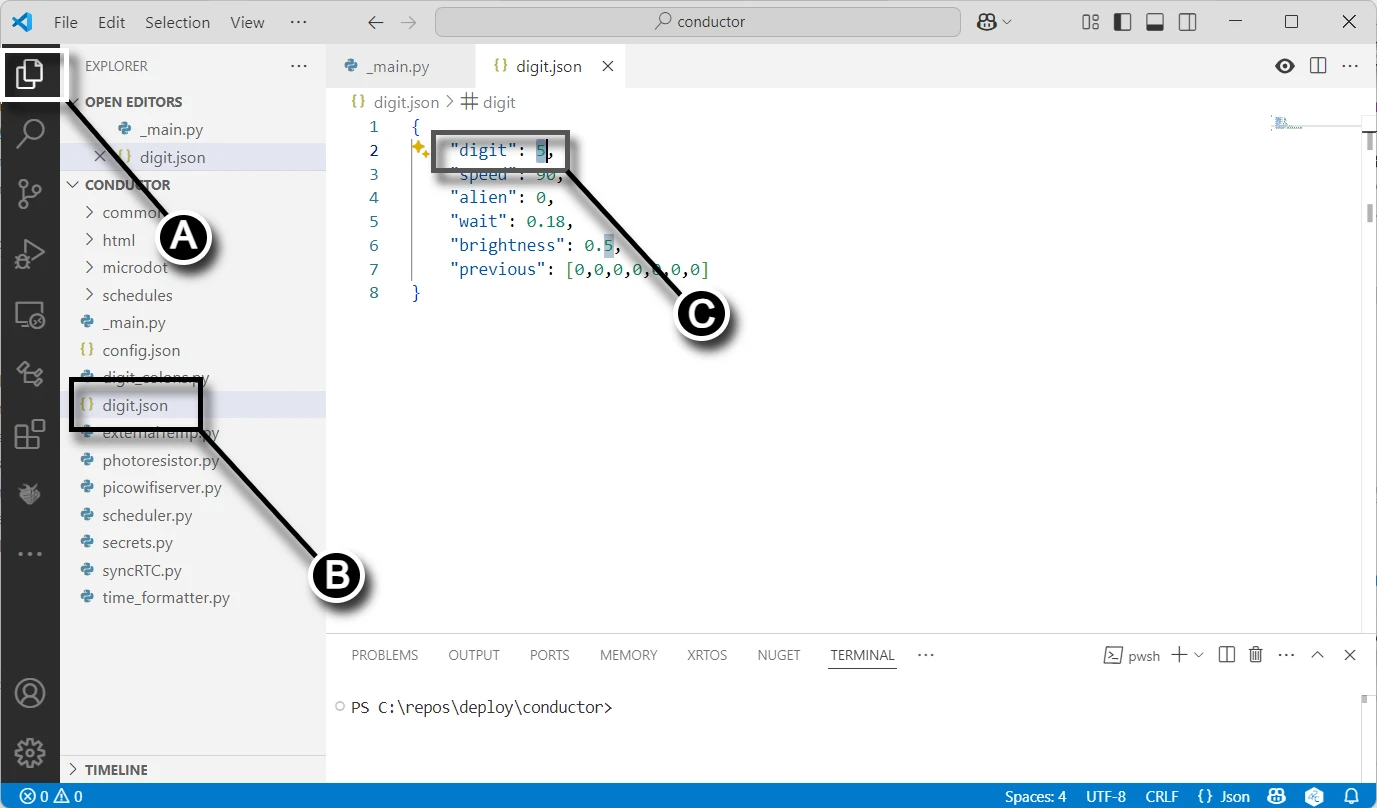
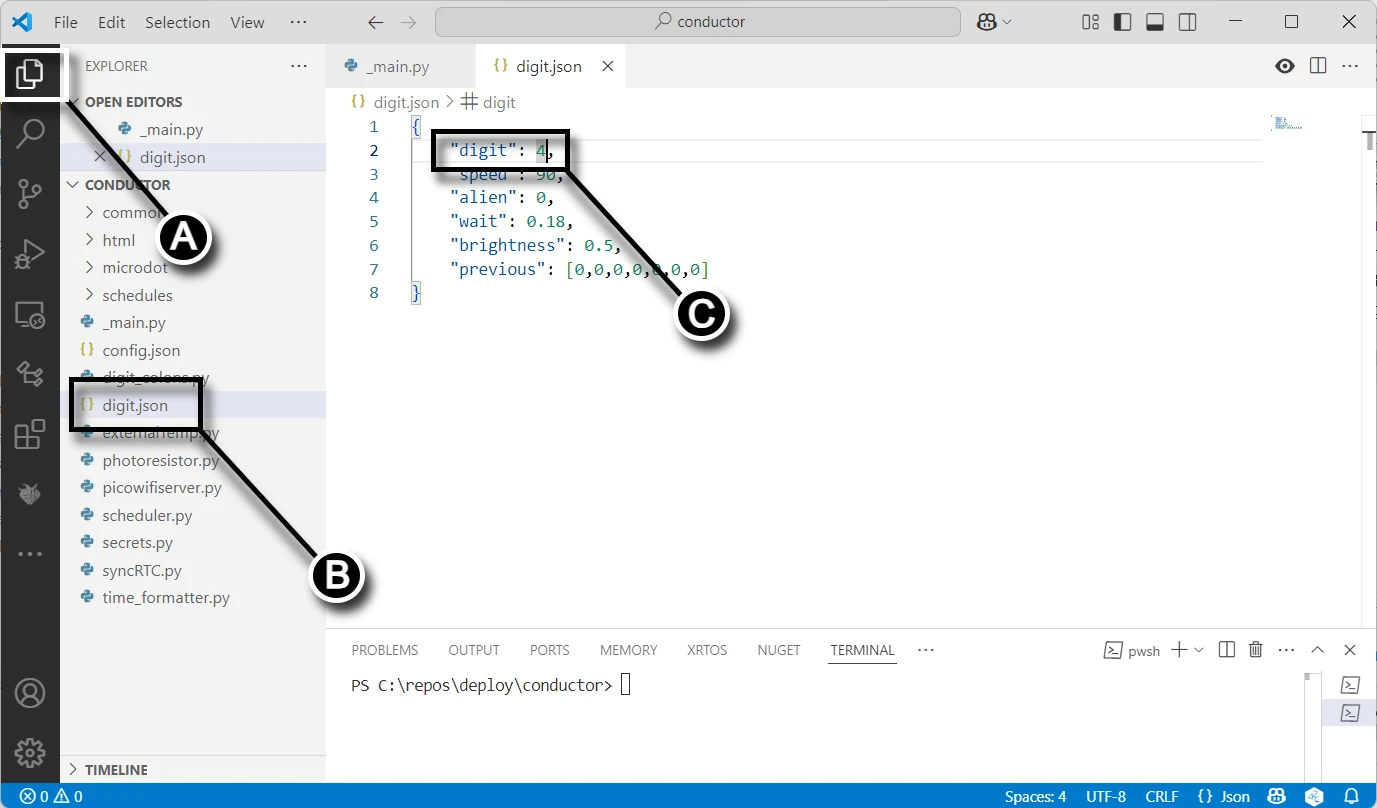
small update to docs

diff --git a/docs/assembly/deploycontrollerproject.md b/docs/assembly/deploycontrollerproject.md
@@ -10,17 +10,17 @@ In this section you will upload code to your Raspberry Pi Pico W 2040 from your 
 
 ## Configure and Deploy the Controller Project
 
-1. Connect your Computer to the controller PCB Pico per the instructions on [Verify Micropython on your Raspberry Pi Pico](../prerequisitesoftware.md)
+1. Connect your Computer to the controller PCB Pico W 2040 per the instructions on [Verify Micropython on your Raspberry Pi Pico](../prerequisitesoftware.md)
 2. Following the screen capture below from VS Code, select **(A)** **File->Open Folder...**, **(B)** open the **deploy/conductor** folder you deployed during step 4 in the section [Fork and Clone the Repository](../prerequisitesoftware.md), then **(C)** click the "Select Folder" button.
 ![deploycontrollercode-1.webp](../img/deploycontrollercode/deploycontrollercode-1.webp)
 3. Following the screen capture below, select the Explorer icon (**A**) in the left [Activity bar](https://code.visualstudio.com/docs/getstarted/userinterface#_basic-layout). Click the digit.json file (**B**) in the Explorer pane. Change the **"digit":** value (**C**) to **4**. Don't forget to save the file after changing the value.
 ![deploycontrollercode-2](../img/deploycontrollercode/deploycontrollercode-2.webp)
 4. Following the screen capture below, create a new terminal by **(A) clicking the elipse ...**, then **(B) Terminal->New Terminal** submenu.
-![testdigitpcb-3](../img/prereq-software/prereqsoftware-3.webp)
+![testdigitpcb-3](../img/deploycontrollercode/deploycontrollercode-3.webp)
 5. Connect your computer's USB port to a Digit's Raspberry Pi Pico. 
 1. Following the screen capture below, **(A) select the drop-down menu** in the terminal pane, then **(B) click the MicroPico vREPL submenu** item.
-![testdigitpcb-4](../img/prereq-software/prereqsoftware-4.webp)
+![testdigitpcb-4](../img/deploycontrollercode/deploycontrollercode-4.webp)
 6. Following the screen capture below, click **All Commands** (**A**) on the [status bar](https://code.visualstudio.com/api/ux-guidelines/status-bar). In the Command text field (**B**), type "**Upload**" after "**> MicroPico:** ", then select the dropdown **MicroPico: Upload project to Pico**.
-![testdigitpcb-5](../img/prereq-software/prereqsoftware-5.webp)
+![testdigitpcb-5](../img/deploycontrollercode/deploycontrollercode-5.webp)
 
 Congratulations on successfully uploading the code to the Digit's Raspberry Pi Pico W!

diff --git a/docs/assembly/controllerpcbassembly.md b/docs/assembly/controllerpcbassembly.md
@@ -172,9 +172,9 @@ The schematic in this section represents the **Colons & Display Microcontroller*
      - `UART1`, `Tx-0`, `Rx-0`: UART communication lines.
      - `5V-OUT`: Power output for external components.
 5. **PNP and NPN Transistors (S8550 and 2N2222)**:</br>
-    *Purpose*: Act as switches or amplifiers for controlling various components.</br>
+    *Purpose*: Act as a switch for powering the DHT22 sensor.</br>
     *S8550 (PNP)*: Used for switching power on or off to the DHT22 sensor</br>
-    *2N2222 (NPN)*: Used to drive the gate of the S8550 to manage power to the DHT22 sensor.
+    *2N2222 (NPN)*: Used to drive the base of the S8550 to manage power to the DHT22 sensor.
 6. **Light Dependent Resistor (LDR)**:</br>
     *Purpose*: Measures ambient light levels to adjust the brightness of the display dynamically.</br>
     *Placement*: Connected to `R1` and works with the microcontroller to sense light intensity.
